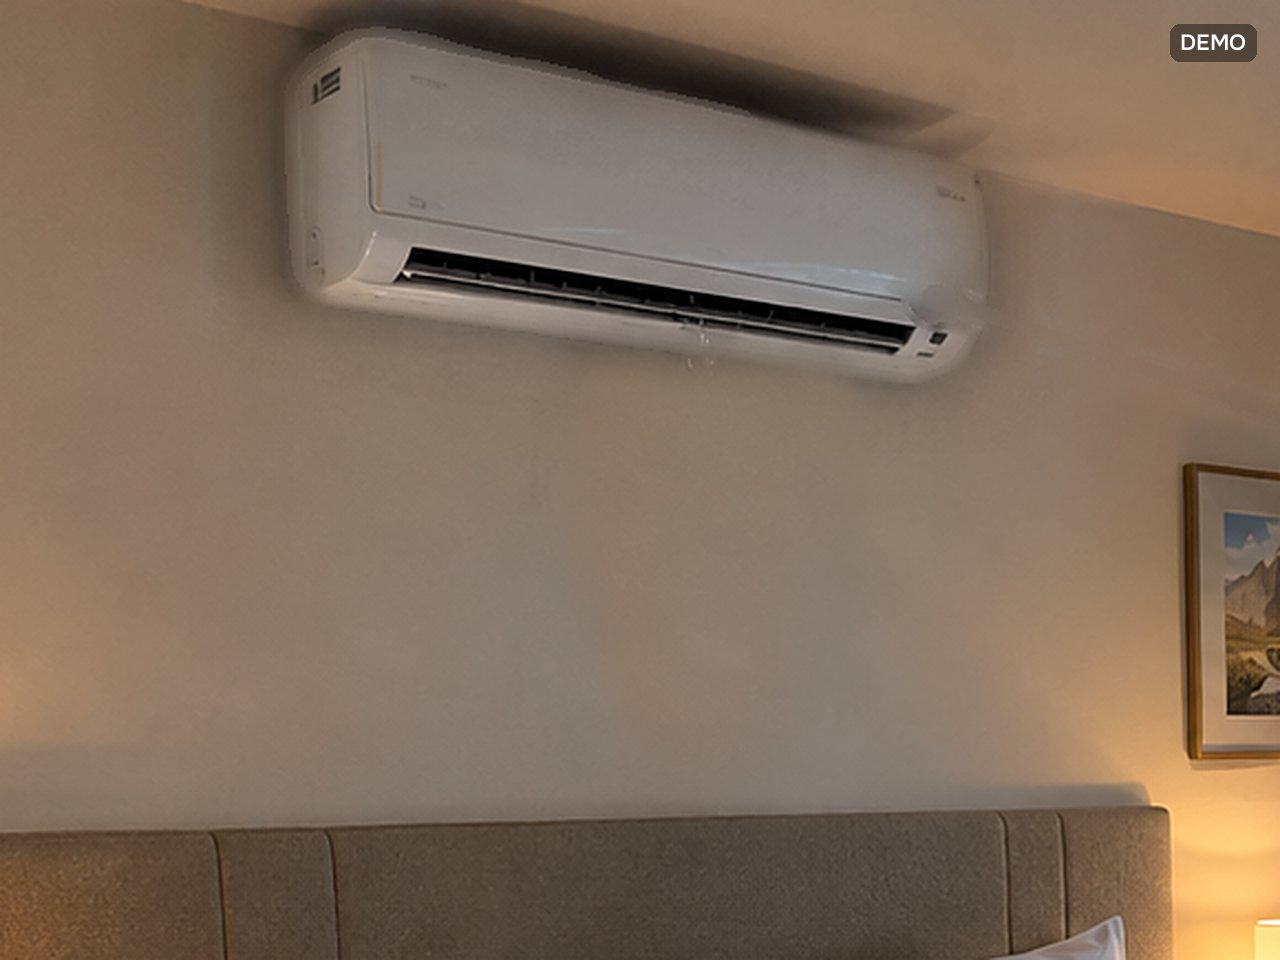
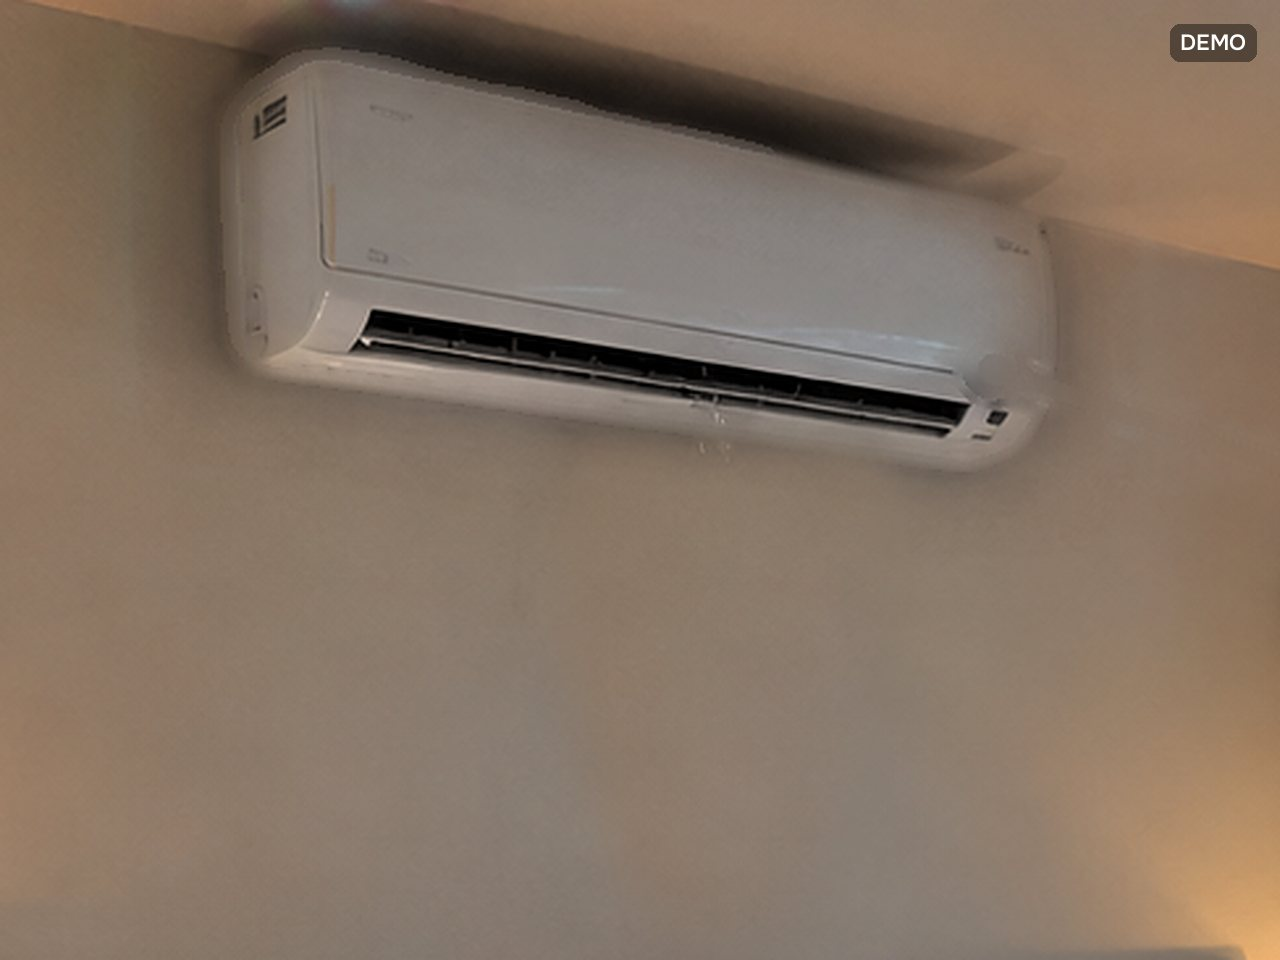
Шаг 35c (блок 2–3): обрезка без кровати; заглушка камеры для фото «после» — чистый блок; кадр 22

diff --git a/lib/features/camera/live_camera.dart b/lib/features/camera/live_camera.dart
@@ -65,8 +65,12 @@ abstract class LiveCamera {
 }
 
 /// Камера для этой платформы (или заглушка с `VOICE_MOCK`).
-LiveCamera createLiveCamera() =>
-    photoIdentifyMock ? MockLiveCamera() : platform.createPlatformCamera();
+///
+/// [mockFrame] — кадр заглушки (фото «после» — чистый блок, шаг 35c).
+LiveCamera createLiveCamera({String mockFrame = kMockCameraFrame}) =>
+    photoIdentifyMock
+        ? MockLiveCamera(frame: mockFrame)
+        : platform.createPlatformCamera();
 
 /// Есть ли смысл открывать «Камеру»: на Android — всегда (ошибку покажет
 /// сам экран), в браузере — есть `getUserMedia` и хотя бы одна камера.
@@ -84,10 +88,17 @@ Future<bool> liveCameraAvailable(
 /// Кадр-картинка вместо камеры (фрагмент иллюстрации художника, шаг 35c) (`VOICE_MOCK`, тесты). Не фото объекта.
 const kMockCameraFrame = 'assets/demo_photos/ac_indoor.jpg';
 
+/// Кадр заглушки для фото «после»: тот же блок, подтёка нет (шаг 35c).
+const kMockAfterFrame = 'assets/demo_photos/ac_after.jpg';
+
 /// Заглушка камеры: «видео» — нарисованная картинка, кадр — её байты.
 class MockLiveCamera implements LiveCamera {
-  MockLiveCamera({this.fail, AssetBundle? bundle})
+  MockLiveCamera(
+      {this.fail, AssetBundle? bundle, this.frame = kMockCameraFrame})
       : _bundle = bundle ?? rootBundle;
+
+  /// Картинка, которую «видит» камера.
+  final String frame;
 
   /// Чем «упасть» при [start] (тест экрана с ошибкой).
   final CameraProblem? fail;
@@ -116,12 +127,12 @@ class MockLiveCamera implements LiveCamera {
   }
 
   @override
-  Widget preview() => Image.asset(kMockCameraFrame,
+  Widget preview() => Image.asset(frame,
       bundle: _bundle, fit: BoxFit.cover, gaplessPlayback: true);
 
   @override
   Future<Uint8List> capture() async =>
-      (await _bundle.load(kMockCameraFrame)).buffer.asUint8List();
+      (await _bundle.load(frame)).buffer.asUint8List();
 
   /// Нарисованный кадр неподвижен — «телефон не двигается».
   @override

diff --git a/test/live_shot_test.dart b/test/live_shot_test.dart
@@ -3,6 +3,7 @@ import 'dart:ui' as ui;
 
 import 'package:flutter/foundation.dart' show Uint8List;
 import 'package:flutter/material.dart';
+import 'package:flutter/services.dart';
 import 'package:flutter_localizations/flutter_localizations.dart';
 import 'package:flutter_test/flutter_test.dart';
 import 'package:hey_helpy/core/design/design.dart';
@@ -27,6 +28,17 @@ Widget _app(Widget child) => MaterialApp(
     );
 
 void main() {
+  test('заглушка камеры: «до» — блок с подтёком, «после» — чистый (шаг 35c)',
+      () async {
+    final bundle = _FileBundle();
+    final before = await MockLiveCamera(bundle: bundle).capture();
+    final after =
+        await MockLiveCamera(bundle: bundle, frame: kMockAfterFrame).capture();
+    expect(before, File(kMockCameraFrame).readAsBytesSync());
+    expect(after, File(kMockAfterFrame).readAsBytesSync());
+    expect(before, isNot(equals(after)));
+  });
+
   testWidgets('фото «после»: затвор → стоп-кадр → «Готово» — снимок камеры',
       (t) async {
     final cam = MockLiveCamera();
@@ -126,4 +138,11 @@ void main() {
       expect(await size(out), await size(src));
     });
   });
+}
+
+/// Картинки из папки assets без сборки (для заглушки камеры).
+class _FileBundle extends CachingAssetBundle {
+  @override
+  Future<ByteData> load(String key) async =>
+      ByteData.sublistView(File(key).readAsBytesSync());
 }

diff --git a/lib/features/photos/live_shot_screen.dart b/lib/features/photos/live_shot_screen.dart
@@ -26,10 +26,18 @@ import 'photo_stamp.dart';
 /// камеры (ПК без веб-камеры, отказ в доступе) можно выбрать файл — такое
 /// фото помечается «из файла» и в акте не считается доказательством.
 /// null — человек закрыл экран, ничего не сняв.
+/// [after] — снимок «после»: заглушка камеры (`VOICE_MOCK`) показывает
+/// чистый блок, а не блок с подтёком (шаг 35c).
 Future<CapturedPhoto?> captureLivePhoto(BuildContext context,
-        {PhotoStamp? stamp, LiveCamera? camera}) =>
+        {PhotoStamp? stamp, LiveCamera? camera, bool after = false}) =>
     Navigator.push<CapturedPhoto>(
-        context, appRoute((_) => LiveShotScreen(stamp: stamp, camera: camera)));
+        context,
+        appRoute((_) => LiveShotScreen(
+            stamp: stamp,
+            camera: camera ??
+                (after
+                    ? createLiveCamera(mockFrame: kMockAfterFrame)
+                    : null))));
 
 enum _Shot { starting, live, frozen, error, saving }
 

diff --git a/lib/features/requests/requests.dart b/lib/features/requests/requests.dart
@@ -707,7 +707,7 @@ class _WorkOrderDetailScreenState extends State<WorkOrderDetailScreen> {
     try {
       // «После» — только живой камерой со штампом (шаг 26); «до» — как раньше.
       photo = stage == 'after'
-          ? await captureLivePhoto(context, stamp: _stamp())
+          ? await captureLivePhoto(context, stamp: _stamp(), after: true)
           : await capturePhoto();
     } on CaptureException catch (e) {
       _ok(

diff --git a/tools/demo_photos/from_art.py b/tools/demo_photos/from_art.py
@@ -34,9 +34,10 @@ MAX_BYTES = 300 * 1024
 
 # hotel_ac.png 1672×941: блок кондиционера ≈ x 415–720, y 30–170; карточка
 # художника начинается с x 887, рамка с картиной — x 815+. Кадр 4:3 с блоком
-# по центру по горизонтали и в верхней четверти (там «Камера-помощник»
+# по центру по горизонтали и в верхней четверти, изголовье кровати (y ≥ 378)
+# за краем — AC-301 в демо стоит в переговорной (там «Камера-помощник»
 # поднимает зелёную рамку над карточкой).
-AC_CROP = (277, 12, 857, 447)
+AC_CROP = (322, 6, 810, 372)
 
 
 def teal_masks(img):
